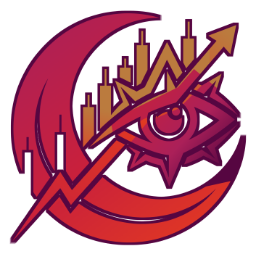
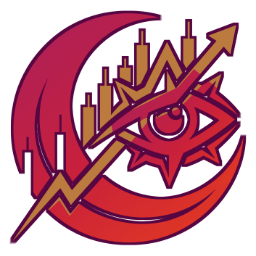
Use ochre candles and arrow with matching eye and crescent blend

diff --git a/templates/partials/brand.html b/templates/partials/brand.html
@@ -1,4 +1,4 @@
-{% set brand_mark_url = '/static/brand-mark.png?v=blend-1' %}
+{% set brand_mark_url = '/static/brand-mark.png?v=ochre-1' %}
 {% macro logo(href='/', class_name='') -%}
 <a class="oj-brand {{ class_name }}" href="{{ href }}" aria-label="Omensite Journal home">
   <img class="oj-mark" src="{{ brand_mark_url }}" width="39" height="39" alt="">

diff --git a/README.md b/README.md
@@ -57,7 +57,7 @@ Trades, accounts, sessions, notes, and uploaded chart images are stored in the d
 - A playbook for your own setups
 - CSV export, a JSON backup, and a print view (use the browser's Save as PDF)
 
-Brand colors live in `static/css/brand.css`: raspberry `#AB2059`, deep plum `#560641`, warm ochre `#BB7B3E`, red-orange `#E13823`, and crimson `#C9203C`. Cream framing and white data surfaces support readable plum text. Profit indicators use plum and loss indicators use crimson, with signs and labels alongside color. Performance calendar days use separate semantic tokens for subtle green profits and subtle red losses, with white days for no trades. The transparent logo blends all five colors with gradients and preserves the original image mask in `static/brand-mark.svg`; `static/brand-mark.png` is the tightly cropped 256-pixel website export.
+Brand colors live in `static/css/brand.css`: raspberry `#AB2059`, deep plum `#560641`, warm ochre `#BB7B3E`, red-orange `#E13823`, and crimson `#C9203C`. Cream framing and white data surfaces support readable plum text. Profit indicators use plum and loss indicators use crimson, with signs and labels alongside color. Performance calendar days use separate semantic tokens for subtle green profits and subtle red losses, with white days for no trades. The transparent logo uses solid ochre candles and trend arrow, matching blended crescent and eye colors, and a deep plum outline. It preserves the original image mask in `static/brand-mark.svg`; `static/brand-mark.png` is the tightly cropped 256-pixel website export.
 
 ## What is not included
 
